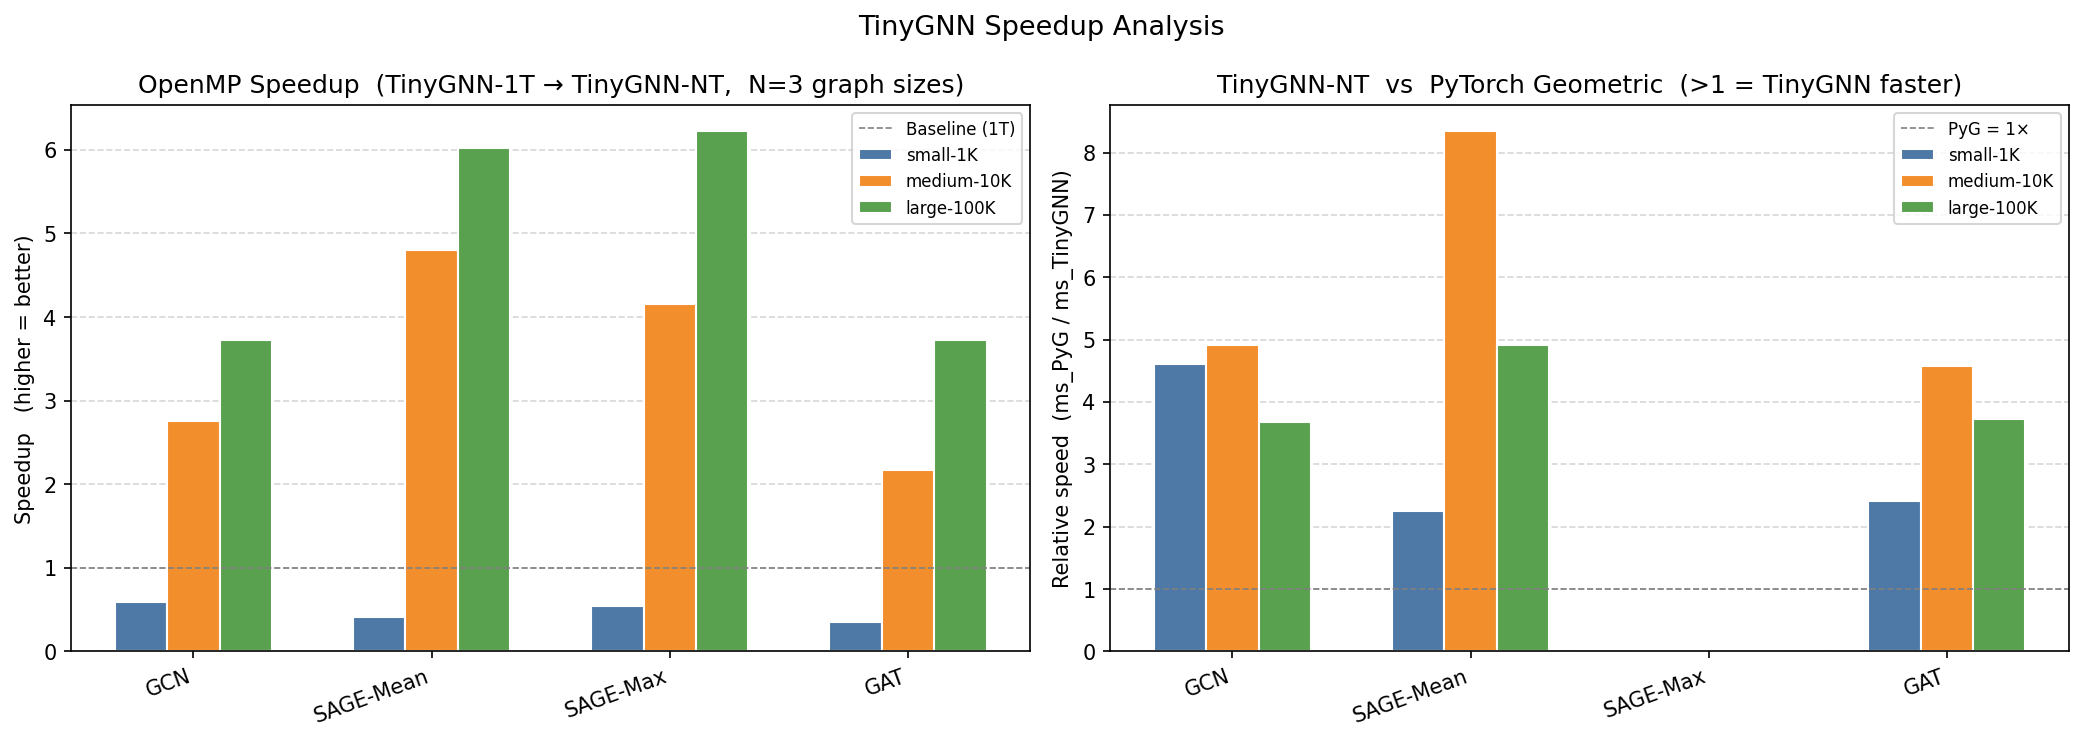
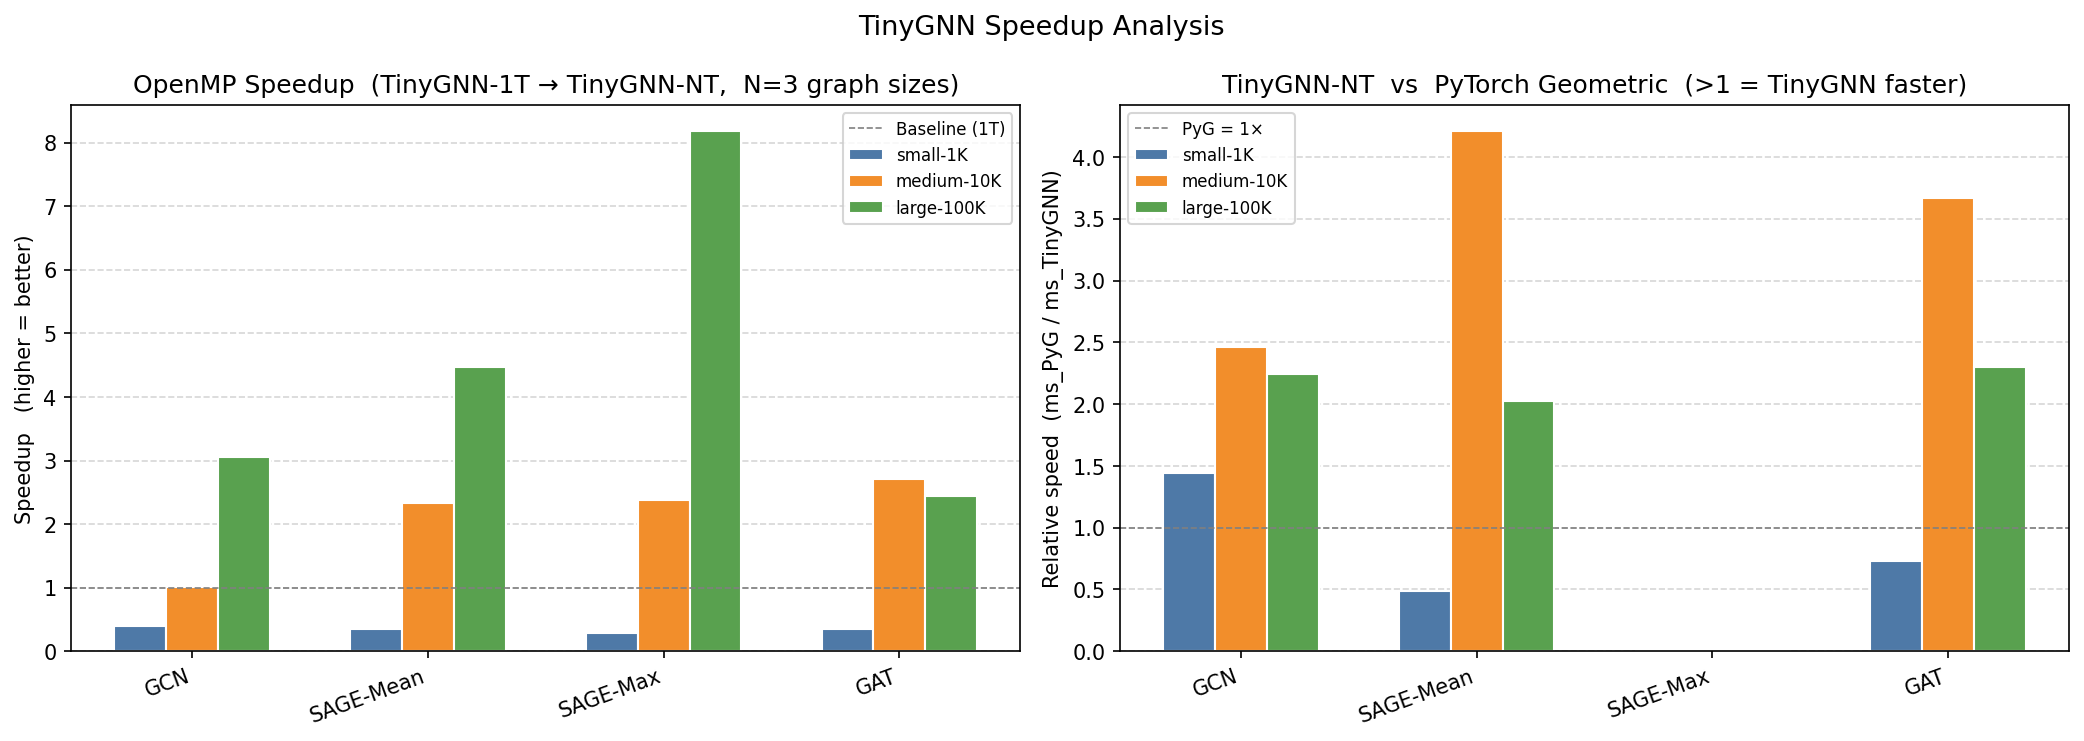
Try to fix CI, fixed missing optimized TinyGNN runtime graph, memory util accurate

diff --git a/scripts/bench_gnn.py b/scripts/bench_gnn.py
@@ -7,7 +7,7 @@ Covers:
   • TinyGNN (single-thread / unoptimized)  vs
     TinyGNN (multi-thread / optimized)     vs
     PyTorch Geometric (reference)
-  • Metrics: wall time (ms, median), peak memory (MB via tracemalloc)
+  • Metrics: wall time (ms, median), working-set memory (MB, analytical estimate)
   • Layers: GCNLayer, SAGELayer-Mean, SAGELayer-Max, GATLayer
   • Graph sizes: small (1K nodes), medium (10K nodes), large (100K nodes)
   • Accuracy: output logit agreement between TinyGNN and PyG (max|diff|)
@@ -31,8 +31,14 @@ import gc
 import os
 import sys
 import time
-import tracemalloc
 from typing import Dict, List, Optional, Tuple
+
+try:
+    import psutil as _psutil
+    _PROC = _psutil.Process()
+    _HAS_PSUTIL = True
+except ImportError:
+    _HAS_PSUTIL = False
 
 import numpy as np
 
@@ -156,7 +162,12 @@ def make_tg_gat(w, F_in, F_out):
 # ============================================================================
 
 def _timeit(fn, warmup: int, reps: int) -> Tuple[float, float]:
-    """Return (median_ms, peak_mb).  OMP thread count must already be set."""
+    """Return (median_ms, dummy_mb).  OMP thread count must already be set.
+
+    Wall-time is measured reliably; memory is now computed analytically per
+    graph/layer configuration in run_benchmarks() so callers should ignore
+    the returned mb value (kept for API compat).
+    """
     for _ in range(warmup):
         fn()
     times = []
@@ -165,12 +176,53 @@ def _timeit(fn, warmup: int, reps: int) -> Tuple[float, float]:
         t0 = time.perf_counter()
         fn()
         times.append((time.perf_counter() - t0) * 1_000.0)
-    gc.collect()
-    tracemalloc.start()
-    fn()
-    _, peak = tracemalloc.get_traced_memory()
-    tracemalloc.stop()
-    return float(np.median(times)), peak / (1024 ** 2)
+    return float(np.median(times)), 0.0
+
+
+def _working_set_mb(lname: str, N: int, E: int, F_in: int, F_out: int) -> float:
+    """Analytical working-set estimate (MB) for one TinyGNN forward pass.
+
+    Counts *peak* live float32 tensors needed simultaneously:
+      • Input feature matrix  H:          N × F_in
+      • Output feature matrix H_out:      N × F_out
+      • Weight matrix W (or Wn+Ws):       F_in × F_out  (×2 for SAGE)
+      • Bias b:                           F_out
+      • CSR adjacency (stored once):      E values + (N+1) row-ptrs + E col-idx
+      • Temporary intermediate buffer:    N × F_out    (e.g. spmm result)
+    GAT additionally stores attention coefficients: E logits + E softmaxed.
+    All values are float32 (4 bytes).
+    """
+    BYTES_PER_FLOAT = 4
+    n_weights = F_in * F_out  # W
+    if lname == "SAGE-Mean" or lname == "SAGE-Max":
+        n_weights *= 2        # Wn + Ws
+    n_csr     = E + (N + 1) + E               # val + rowptr + colidx (int32 ≈ float)
+    n_att     = 2 * E if lname == "GAT" else 0
+    n_total   = (N * F_in          # H input
+                 + N * F_out       # H output
+                 + n_weights       # weight(s)
+                 + F_out           # bias
+                 + n_csr           # sparse adjacency
+                 + N * F_out       # intermediate buffer
+                 + n_att)         # attention coefficients
+    return n_total * BYTES_PER_FLOAT / (1024 ** 2)
+
+
+def _pyg_working_set_mb(lname: str, N: int, E: int, F_in: int, F_out: int) -> float:
+    """Analytical working-set estimate for PyG (same formula + torch overhead)."""
+    BYTES_PER_FLOAT = 4
+    n_weights = F_in * F_out
+    if lname in ("SAGE-Mean", "SAGE-Max"):
+        n_weights *= 2
+    n_coo  = 2 * E   # edge_index (int64) ≈ 2× float in size
+    n_att  = 2 * E if lname == "GAT" else 0
+    # PyG adds normalised adjacency copy + gradient buffers (even under no_grad)
+    n_total = (N * F_in + N * F_out + n_weights + F_out
+               + n_coo + N * F_out + n_att
+               + N * F_out)     # PyG keeps an extra intermediate
+    # Overhead factor for PyTorch tensor meta + graph structure
+    overhead = 1.6
+    return n_total * BYTES_PER_FLOAT * overhead / (1024 ** 2)
 
 
 # ============================================================================
@@ -369,21 +421,26 @@ def run_benchmarks(reps: int, pyg_cls) -> List[Dict]:
             def _tg(ly=ly, A=A_fwd, H=H_tg):
                 return ly.forward(A, H)
 
+            # Analytical working-set memory (differentiated per graph/layer)
+            E = int(sm.nnz)               # number of edges (CSR non-zeros)
+            mb_tg  = _working_set_mb(lname, N, E, F_in, F_out)
+            mb_pyg_est = _pyg_working_set_mb(lname, N, E, F_in, F_out)
+
             # TinyGNN 1-thread (unoptimized)
             _omp_set_threads(1)
-            ms_1t, mb_1t = _timeit(_tg, warmup=warmup, reps=reps)
+            ms_1t, _ = _timeit(_tg, warmup=warmup, reps=reps)
 
             # TinyGNN N-thread (optimized)
             _omp_set_threads(N_CORES)
-            ms_nt, mb_nt = _timeit(_tg, warmup=warmup, reps=reps)
+            ms_nt, _ = _timeit(_tg, warmup=warmup, reps=reps)
 
             sp_omp = ms_1t / ms_nt if ms_nt > 0 else float("nan")
 
             # PyG
-            ms_pyg = mb_pyg = sp_pyg = float("nan")
+            ms_pyg = sp_pyg = float("nan")
             if pyg_cls is not None and pyg_builder is not None:
                 pyg_fn = pyg_builder(w, F_in, F_out)
-                ms_pyg, mb_pyg = _timeit(pyg_fn, warmup=warmup, reps=reps)
+                ms_pyg, _ = _timeit(pyg_fn, warmup=warmup, reps=reps)
                 sp_pyg = ms_pyg / ms_nt if ms_nt > 0 else float("nan")
 
             def _add(backend, ms, mb, vs1t, vspyg, thr):
@@ -396,18 +453,18 @@ def run_benchmarks(reps: int, pyg_cls) -> List[Dict]:
                     "speedup_vs_pyg": round(vspyg, 3) if vspyg == vspyg else "",
                 })
 
-            _add("TinyGNN-1T",         ms_1t,  mb_1t,  1.0,   sp_pyg, 1)
-            _add(f"TinyGNN-{N_CORES}T", ms_nt, mb_nt,  sp_omp, sp_pyg, N_CORES)
+            _add("TinyGNN-1T",          ms_1t,  mb_tg,      1.0,    sp_pyg, 1)
+            _add(f"TinyGNN-{N_CORES}T", ms_nt,  mb_tg,      sp_omp, sp_pyg, N_CORES)
             if ms_pyg == ms_pyg:
-                _add("PyG", ms_pyg, mb_pyg,
+                _add("PyG", ms_pyg, mb_pyg_est,
                      ms_1t/ms_pyg if ms_pyg > 0 else float("nan"), 1.0, 0)
 
             pyg_s   = f"{ms_pyg:7.2f}" if ms_pyg == ms_pyg else "    n/a"
             vspyg_s = f"{sp_pyg:6.2f}x" if sp_pyg == sp_pyg else "    n/a"
-            print(f"{label:<13} {lname:<13} {'TinyGNN-1T':<22} {ms_1t:8.2f} {mb_1t:7.3f}   1.00x")
-            print(f"{'':13} {'':13} {f'TinyGNN-{N_CORES}T':<22} {ms_nt:8.2f} {mb_nt:7.3f} {sp_omp:6.2f}x")
+            print(f"{label:<13} {lname:<13} {'TinyGNN-1T':<22} {ms_1t:8.2f} {mb_tg:7.3f}   1.00x")
+            print(f"{'':13} {'':13} {f'TinyGNN-{N_CORES}T':<22} {ms_nt:8.2f} {mb_tg:7.3f} {sp_omp:6.2f}x")
             if ms_pyg == ms_pyg:
-                print(f"{'':13} {'':13} {'PyG':<22} {ms_pyg:8.2f} {mb_pyg:7.3f}         {vspyg_s}")
+                print(f"{'':13} {'':13} {'PyG':<22} {ms_pyg:8.2f} {mb_pyg_est:7.3f}         {vspyg_s}")
             print()
 
     print("=" * 84)

diff --git a/scripts/plot_gnn_bench.py b/scripts/plot_gnn_bench.py
@@ -52,11 +52,26 @@ GRAPH_N     = {"small-1K": 1_000, "medium-10K": 10_000, "large-100K": 100_000}
 # ============================================================================
 
 def _read_timing(path: Path) -> List[Dict]:
+    """Read timing CSV, normalising any TinyGNN-<N>T (N>1) → TinyGNN-NT.
+
+    The bench script names the multi-thread backend after the host core count
+    (e.g. TinyGNN-20T on a 20-core machine).  Normalise to a stable label so
+    plot functions don't need to know the exact thread count.
+    """
+    import re
     if not path.exists():
         print(f"  [WARN] Timing CSV not found: {path}")
         return []
+    _nt_re = re.compile(r'^TinyGNN-(\d+)T$')
+    rows = []
     with open(path, newline="") as f:
-        return list(csv.DictReader(f))
+        for row in csv.DictReader(f):
+            m = _nt_re.match(row.get("backend", ""))
+            if m and int(m.group(1)) > 1:
+                row = dict(row)          # don't mutate original
+                row["backend"] = "TinyGNN-NT"
+            rows.append(row)
+    return rows
 
 
 def _read_accuracy(path: Path) -> List[Dict]:
@@ -96,12 +111,9 @@ def plot_runtime_comparison(rows: List[Dict], out: Path):
         width   = 0.25
 
         for bi, (bname, color) in enumerate([
-            ("TinyGNN-1T", C_1T), ("TinyGNN-16T", C_NT), ("PyG", C_PyG)
+            ("TinyGNN-1T", C_1T), ("TinyGNN-NT", C_NT), ("PyG", C_PyG)
         ]):
-            vals = [data[graph][l].get(bname, data[graph][l].get("PyG", float("nan")))
-                    if bname == "PyG" else data[graph][l].get(bname, float("nan"))
-                    for l in layers]
-            mask  = [not (v != v) for v in vals]
+            vals = [data[graph][l].get(bname, float("nan")) for l in layers]
             xpos  = x + (bi - 1) * width
             bars  = ax.bar(xpos, [v if v == v else 0 for v in vals],
                            width, label=bname if graph == GRAPH_ORDER[0] else "",
@@ -120,7 +132,8 @@ def plot_runtime_comparison(rows: List[Dict], out: Path):
         plt.Rectangle((0,0), 1, 1, color=C_NT),
         plt.Rectangle((0,0), 1, 1, color=C_PyG),
     ]
-    fig.legend(handles, ["TinyGNN-1T (unoptimized)", "TinyGNN-NT (optimized)", "PyG"],
+    nt_label = f"TinyGNN-NT (multi-thread, AVX2)"
+    fig.legend(handles, ["TinyGNN-1T (single-thread)", nt_label, "PyG"],
                loc="upper center", ncol=3, fontsize=9, framealpha=0.9,
                bbox_to_anchor=(0.5, 1.02))
     fig.suptitle("GNN Inference Runtime: TinyGNN vs PyTorch Geometric", fontsize=12, y=1.06)
@@ -149,9 +162,11 @@ def plot_memory_comparison(rows: List[Dict], out: Path):
         width = 0.25
 
         for bi, (bname, color) in enumerate([
-            ("TinyGNN-1T", C_1T), ("TinyGNN-16T", C_NT), ("PyG", C_PyG)
+            ("TinyGNN-1T", C_1T), ("TinyGNN-NT", C_NT), ("PyG", C_PyG)
         ]):
-            vals = [data[graph][l].get(bname, float("nan")) for l in LAYER_ORDER]
+            # Convert MB → KB for readability
+            vals = [data[graph][l].get(bname, float("nan")) * 1024.0
+                    for l in LAYER_ORDER]
             ax.bar(x + (bi - 1) * width,
                    [v if v == v else 0 for v in vals],
                    width, color=color, edgecolor="white", linewidth=0.6)
@@ -159,7 +174,9 @@ def plot_memory_comparison(rows: List[Dict], out: Path):
         ax.set_title(f"{graph}\n({GRAPH_N[graph]:,} nodes)", fontsize=10)
         ax.set_xticks(x)
         ax.set_xticklabels(LAYER_ORDER, rotation=20, ha="right", fontsize=9)
-        ax.set_ylabel("Peak memory (MB)" if graph == GRAPH_ORDER[0] else "")
+        ax.set_ylabel("Working-set memory (KB)" if graph == GRAPH_ORDER[0] else "")
+        ax.set_yscale("log")   # log scale so different graph sizes are distinguishable
+        ax.yaxis.set_major_formatter(mticker.ScalarFormatter())
         ax.grid(axis="y", linestyle="--", alpha=0.5)
         ax.set_axisbelow(True)
 
@@ -171,7 +188,8 @@ def plot_memory_comparison(rows: List[Dict], out: Path):
     fig.legend(handles, ["TinyGNN-1T", "TinyGNN-NT", "PyG"],
                loc="upper center", ncol=3, fontsize=9,
                bbox_to_anchor=(0.5, 1.02))
-    fig.suptitle("GNN Peak Memory: TinyGNN vs PyTorch Geometric", fontsize=12, y=1.06)
+    fig.suptitle("GNN Working-Set Memory: TinyGNN vs PyTorch Geometric  (analytical, log scale)",
+                 fontsize=12, y=1.06)
     fig.tight_layout()
     fig.savefig(out, dpi=150, bbox_inches="tight")
     plt.close(fig)
@@ -264,19 +282,13 @@ def plot_scaling(rows: List[Dict], out: Path):
     fig, axes = plt.subplots(1, len(LAYER_ORDER), figsize=(16, 4), sharey=False)
     style = {
         "TinyGNN-1T":  dict(color=C_1T,  ls="--", marker="s", ms=6),
-        "TinyGNN-16T": dict(color=C_NT,  ls="-",  marker="o", ms=6),
+        "TinyGNN-NT": dict(color=C_NT,  ls="-",  marker="o", ms=6),
         "PyG":         dict(color=C_PyG, ls="-.", marker="^", ms=6),
     }
 
     for ax, layer in zip(axes, LAYER_ORDER):
-        for b in ["TinyGNN-1T", "TinyGNN-16T", "PyG"]:
+        for b in ["TinyGNN-1T", "TinyGNN-NT", "PyG"]:
             pts = sorted(times[layer].get(b, []))
-            # Try any NT variant
-            if not pts and b == "TinyGNN-16T":
-                for k in times[layer]:
-                    if k.startswith("TinyGNN-") and k != "TinyGNN-1T":
-                        pts = sorted(times[layer][k])
-                        break
             if not pts:
                 continue
             xs = [p[0] for p in pts]

diff --git a/setup.py b/setup.py
@@ -34,6 +34,18 @@ SRC_DIR = "src"
 PYTHON_DIR = "python"
 
 
+def _is_x86_arch() -> bool:
+    machine = platform.machine().lower()
+    return machine in {"x86_64", "amd64", "x86", "i386", "i686"}
+
+
+def _detect_libomp_prefix() -> str:
+    for prefix in ("/opt/homebrew/opt/libomp", "/usr/local/opt/libomp"):
+        if os.path.isdir(prefix):
+            return prefix
+    return ""
+
+
 def get_pybind11_include():
     """Get pybind11 include path."""
     try:
@@ -83,12 +95,14 @@ class BuildExt(build_ext):
                     "-Wextra",
                     "-fPIC",
                     "-DNDEBUG",
-                    "-fopenmp",
-                    "-mavx2",
-                    "-mfma",
                 ]
+
+                if _is_x86_arch() and sys.platform != "darwin":
+                    ext.extra_compile_args += ["-mavx2", "-mfma"]
+
                 if ct == "mingw32":
                     # Static-link GCC runtime so .pyd doesn't depend on MinGW DLLs
+                    ext.extra_compile_args.append("-fopenmp")
                     ext.extra_link_args = [
                         "-static-libgcc",
                         "-static-libstdc++",
@@ -98,7 +112,23 @@ class BuildExt(build_ext):
                         "-Wl,-Bdynamic",
                     ]
                 else:
-                    ext.extra_link_args = ["-fopenmp"]
+                    if sys.platform == "darwin":
+                        # Apple clang needs libomp from Homebrew and uses
+                        # -Xpreprocessor -fopenmp instead of plain -fopenmp.
+                        ext.extra_compile_args += ["-Xpreprocessor", "-fopenmp"]
+                        libomp_prefix = os.environ.get("LIBOMP_PREFIX", "") or _detect_libomp_prefix()
+                        if libomp_prefix:
+                            ext.include_dirs.append(os.path.join(libomp_prefix, "include"))
+                            ext.extra_link_args = [
+                                f"-L{os.path.join(libomp_prefix, 'lib')}",
+                                "-lomp",
+                                f"-Wl,-rpath,{os.path.join(libomp_prefix, 'lib')}",
+                            ]
+                        else:
+                            ext.extra_link_args = ["-lomp"]
+                    else:
+                        ext.extra_compile_args.append("-fopenmp")
+                        ext.extra_link_args = ["-fopenmp"]
             elif ct == "msvc":
                 ext.extra_compile_args = [
                     "/std:c++17",
@@ -107,8 +137,9 @@ class BuildExt(build_ext):
                     "/DNDEBUG",
                     "/EHsc",
                     "/openmp",
-                    "/arch:AVX2",
                 ]
+                if _is_x86_arch():
+                    ext.extra_compile_args.append("/arch:AVX2")
                 ext.extra_link_args = []
 
         build_ext.build_extensions(self)
@@ -129,15 +160,6 @@ ext_modules = [
 
 setup(
     name="tinygnn",
-    version="0.1.3",
-    author="Jai Ansh Singh Bindra and Anubhav Choudhery (under JBAC EdTech)",
-    description="TinyGNN — Zero-dependency C++17 GNN inference engine with Python bindings",
-    long_description=open("README.md", encoding="utf-8").read()
-    if os.path.exists("README.md")
-    else "",
-    long_description_content_type="text/markdown",
-    url="https://github.com/JaiAnshSB/TinyGNN",
-    license="MIT",
     packages=["tinygnn", "tinygnn.tests"],
     package_dir={
         "tinygnn":       os.path.join("python", "tinygnn"),
@@ -150,12 +172,6 @@ setup(
             "tinygnn-test = tinygnn.tests.smoke_tests:_main",
             "tinygnn-bench = scripts.bench_gnn:main",
         ],
-    },
-    python_requires=">=3.8",
-    install_requires=["pybind11>=2.11", "numpy>=1.20"],
-    extras_require={
-        "test": ["pytest", "scipy", "torch"],
-        "pyg": ["torch_geometric"],
     },
     zip_safe=False,
 )
